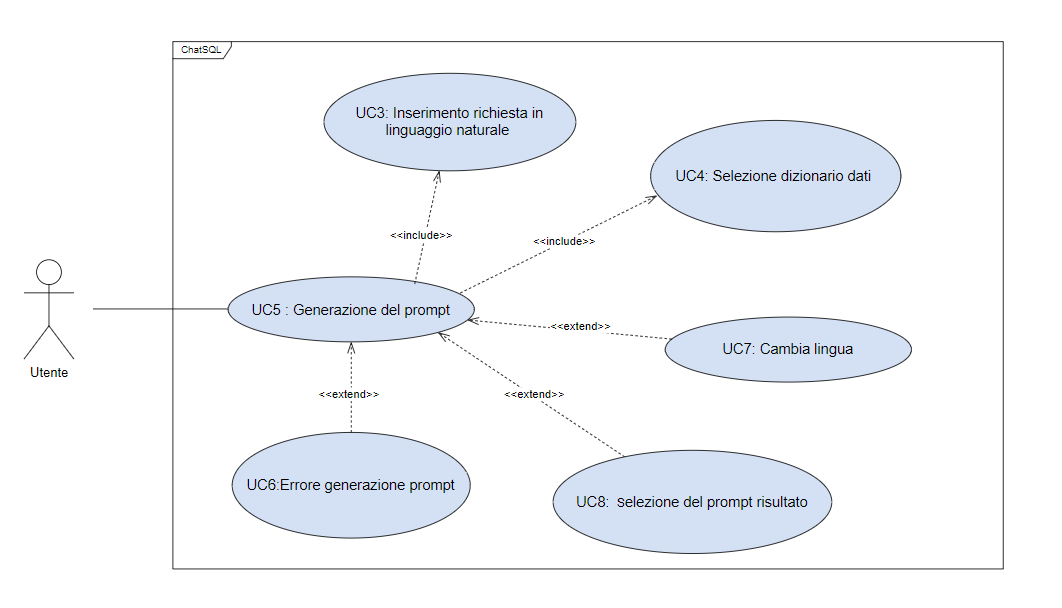
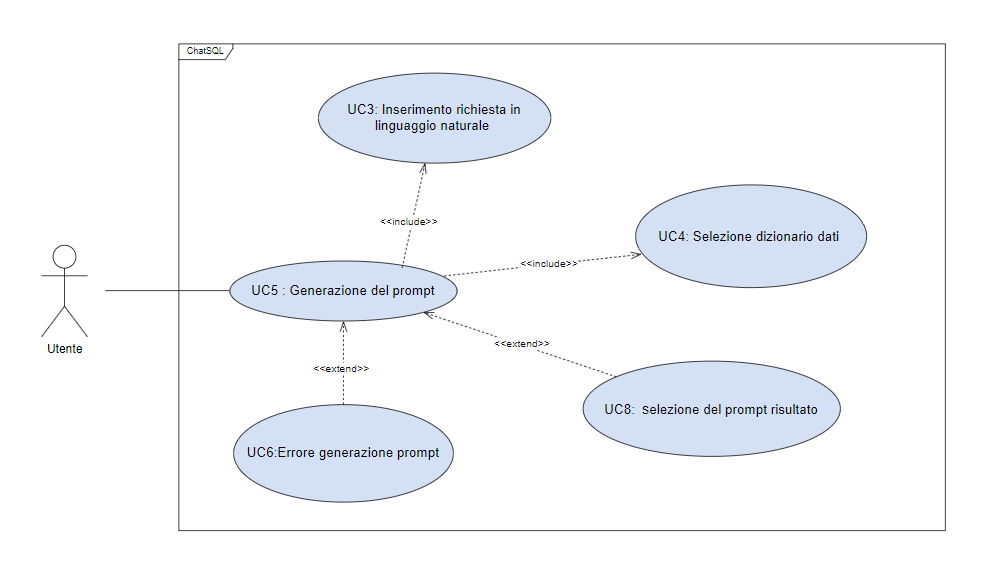
Hotfix UC7, UC3, UC5

diff --git a/sources/documents/2_RTB/AnalisiDeiRequisiti/usecase/uc5.tex b/sources/documents/2_RTB/AnalisiDeiRequisiti/usecase/uc5.tex
@@ -17,7 +17,6 @@ Utente
   \item L'applicazione è stata avviata con successo;
   \item È presente almeno un \glossario{dizionario dati} nel sistema.
   \item L'Utente ha selezionato un \glossario{dizionario dati} (\hyperref[UC4]{UC4});
-  \item L'Utente ha selezionato la lingua di inserimento della richiesta (\hyperref[UC7]{UC7});
   \item L'Utente ha inserito una richiesta in linguaggio naturale (\hyperref[UC3]{UC3}).
 \end{itemize}
 
@@ -33,7 +32,6 @@ Utente
   \item L'Utente visualizza la lista dei \glossario{dizionari dati} disponibili (\hyperref[UC10]{UC10});
   \item L'Utente decide di visualizzare un \glossario{dizionario dati} dalla lista (\hyperref[UC9]{UC9});
   \item L’Utente seleziona un \glossario{dizionario dati} sul quale baserà l’interrogazione (\hyperref[UC4]{UC4});
-  \item L’Utente sceglie la lingua su cui farà l’interrogazione. La lingua è in italiano di default se non viene cambiata (\hyperref[UC7]{UC7});
   \item L’Utente inserisce una interrogazione in linguaggio naturale nel box testuale apposito (\hyperref[UC3]{UC3});
   \item Inizia il processo di generazione del \glossario{prompt} e di raccolta di metadati.
 \end{enumerate}
@@ -53,7 +51,6 @@ Utente
 \paragraph*{Estensioni}
 \begin{itemize}
   % Inserito anche selezione dizionario dati. Da capire se dopo il prompt si possa interagire nuovamente con la lista
-  \item Cambio lingua (\hyperref[UC7]{UC7});
   \item Selezione e copia del \glossario{prompt} risultato (\hyperref[UC8]{UC8}).
   \item Errore nella generazione del \glossario{prompt} (\hyperref[UC6]{UC6}).
 \end{itemize}

diff --git a/sources/documents/2_RTB/AnalisiDeiRequisiti/usecase/uc3.tex b/sources/documents/2_RTB/AnalisiDeiRequisiti/usecase/uc3.tex
@@ -28,3 +28,13 @@ Utente
 \begin{enumerate}
   \item L’Utente scrive un'interrogazione nell’apposito box su cui poi il sistema potrà produrre un \glossario{prompt} in seguito.
 \end{enumerate}
+
+\paragraph*{Inclusioni}
+\begin{itemize}
+  \item Selezione \glossario{dizionario dati} (\hyperref[UC4]{UC4});
+\end{itemize}
+
+\paragraph*{Estensioni}
+\begin{itemize}
+  \item Cambio lingua (\hyperref[UC7]{UC7});
+\end{itemize}
